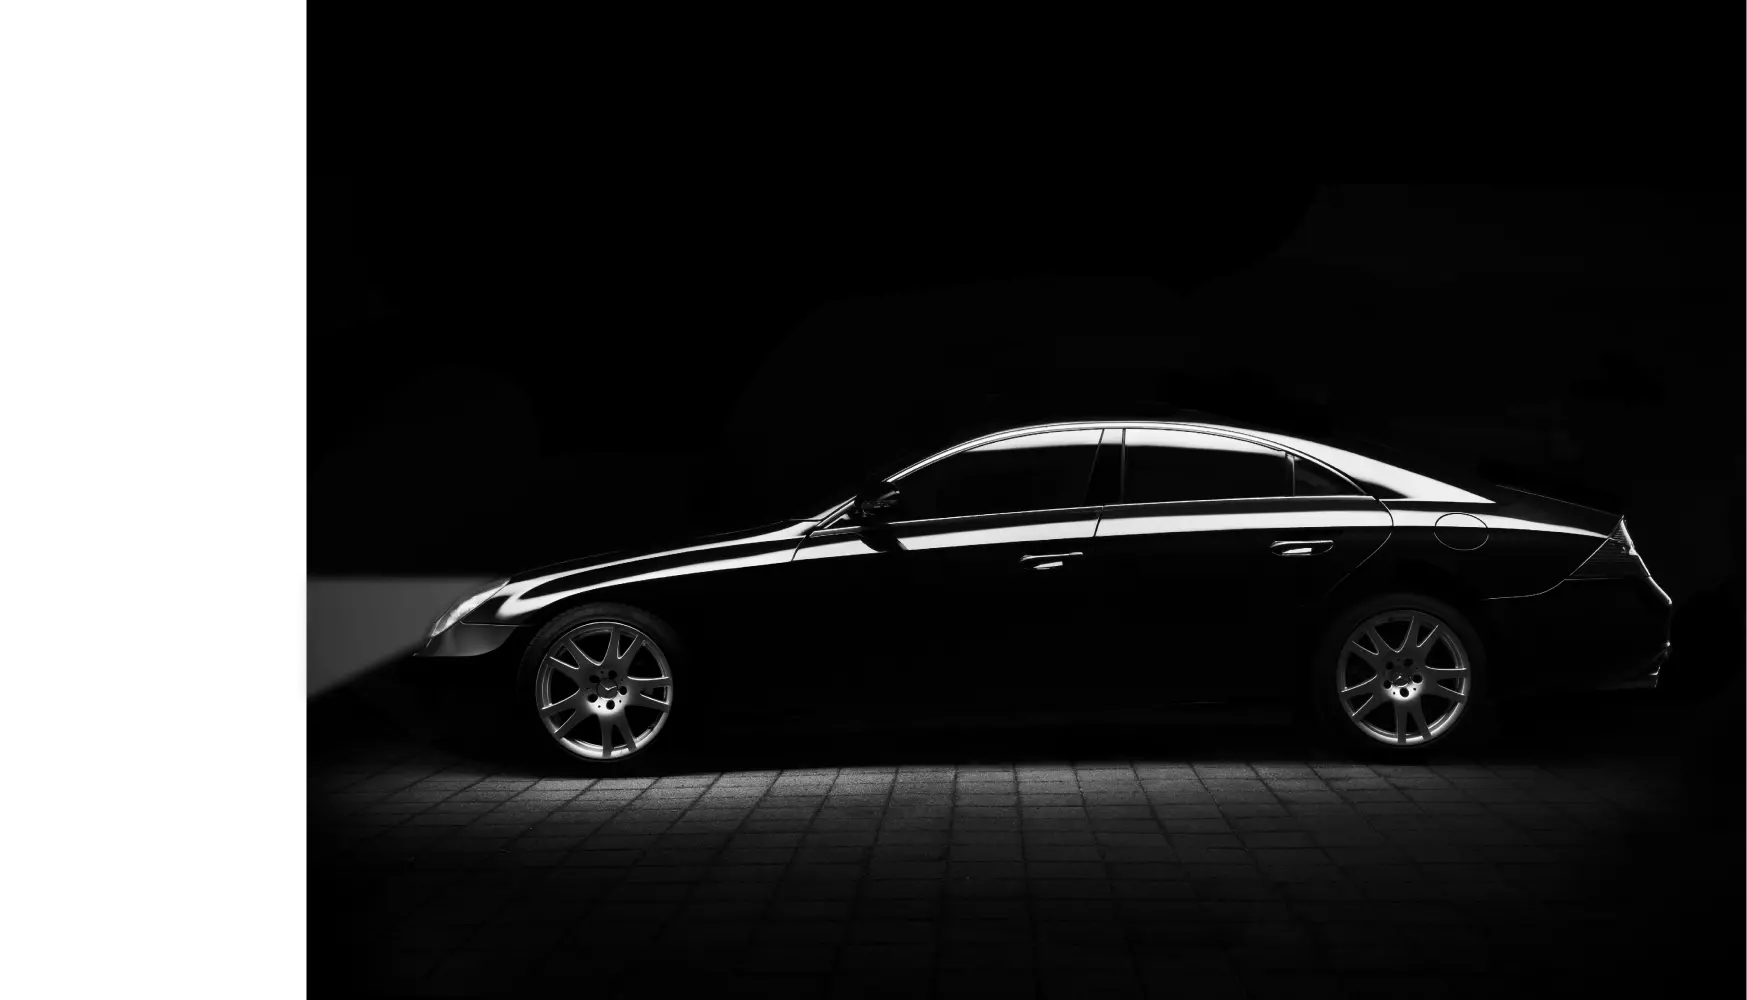
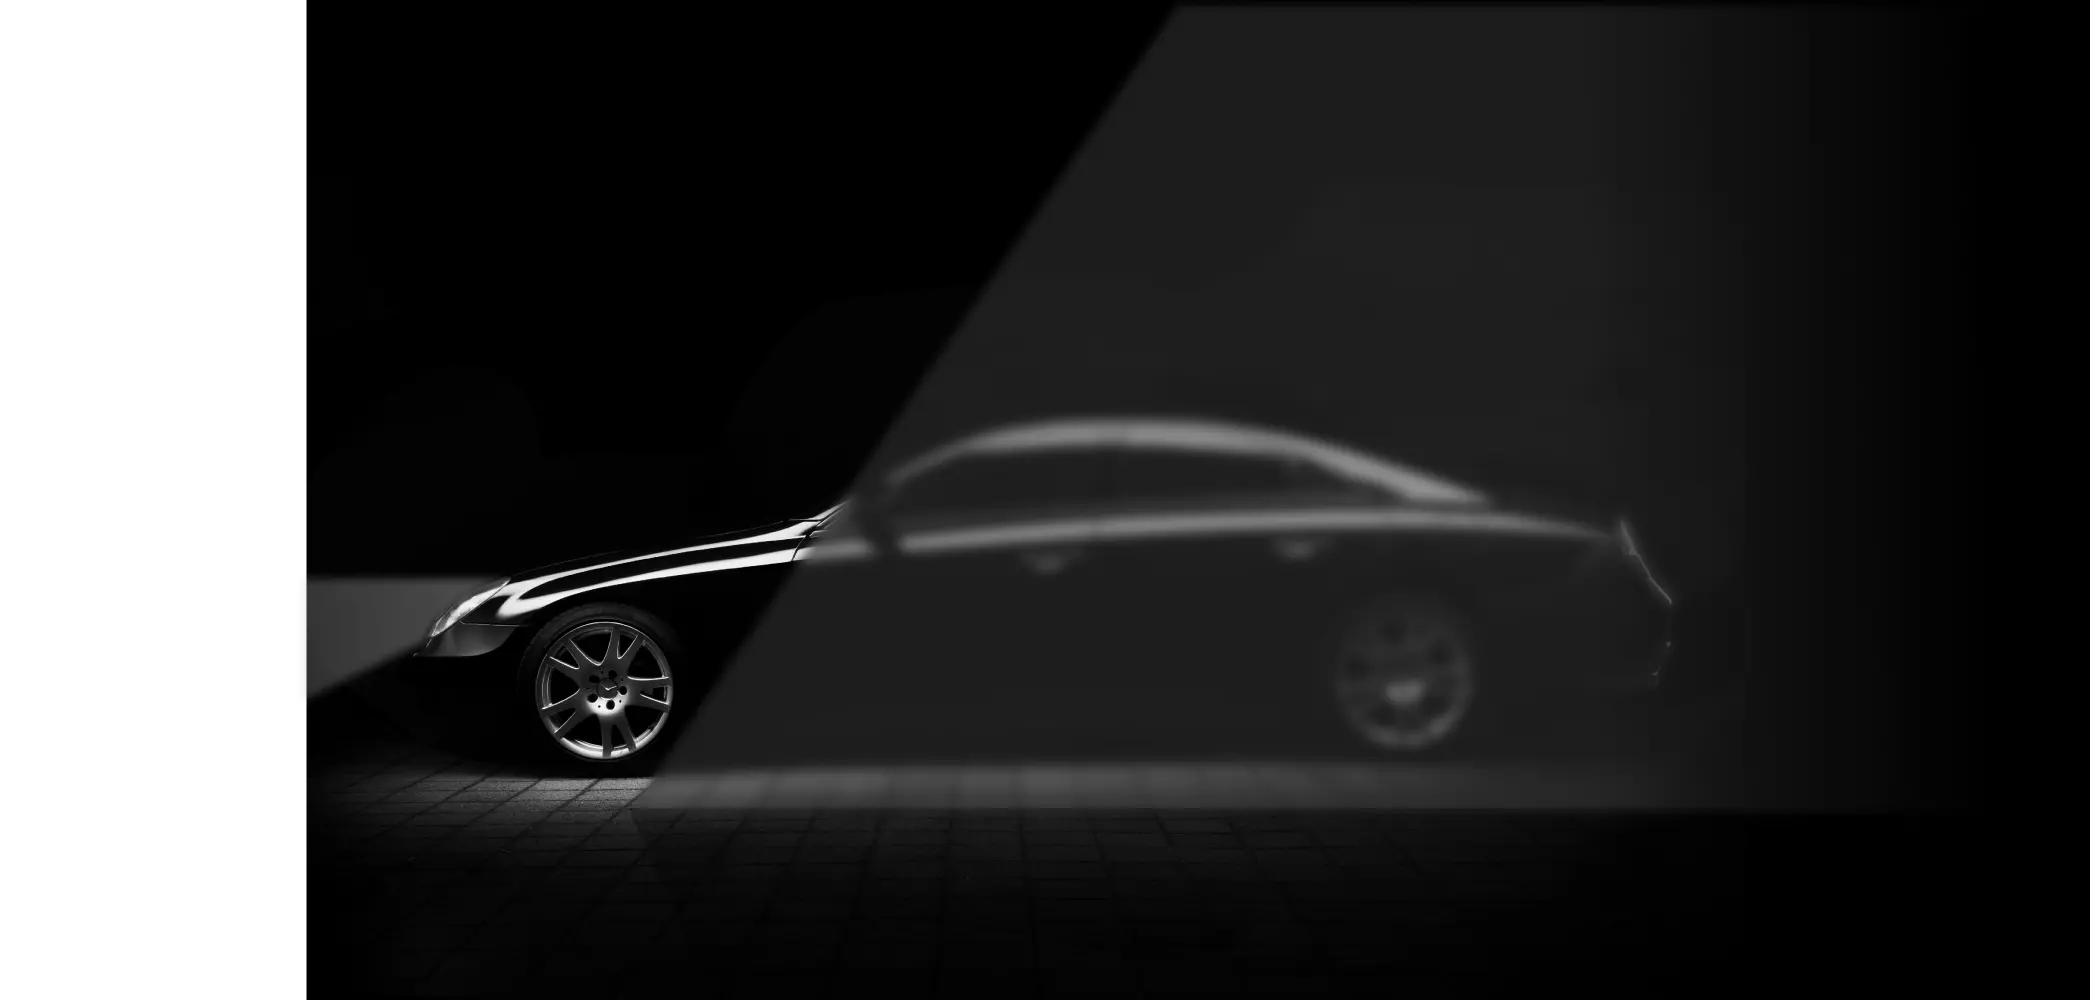
add modal + upd hero-bg-img

Changed region(s): [[0.1236, 0.0, 0.9582, 1.0]]

diff --git a/scutelinik/css/style.css b/scutelinik/css/style.css
@@ -202,6 +202,12 @@ input {
   font-size: 18px;
 }
 
+._lock {
+  overflow: hidden !important;
+  height: 100% !important;
+  padding-right: 18px;
+}
+
 .header {
   margin-top: 28px;
 }
@@ -254,10 +260,10 @@ input {
 .hero::before {
   position: absolute;
   content: "";
-  top: 0;
-  left: 0;
-  height: 100%;
-  width: 100%;
+  top: -97px;
+  left: 192px;
+  height: 1000px;
+  width: 2080px;
   background-image: url(../images/bg/head-bg.png);
   background-size: contain;
   background-repeat: no-repeat;
@@ -272,11 +278,6 @@ input {
   right: 0;
   height: 100%;
   width: 100%;
-  background-image: url(../images/bg/head-carblur.svg);
-  background-size: contain;
-  background-repeat: no-repeat;
-  background-position: top right -137px;
-  filter: blur(10px);
   z-index: -2;
 }
 .hero-container {
@@ -309,6 +310,7 @@ input {
   border-radius: 50%;
   opacity: 0.7;
   z-index: -1;
+  animation: heros 15s infinite linear;
 }
 .hero__title {
   color: #FA2230;
@@ -483,6 +485,7 @@ input {
   border-radius: 50%;
   opacity: 0.7;
   z-index: -3;
+  animation: circle 17s infinite linear;
 }
 .whyus__text {
   max-width: 375px;
@@ -503,11 +506,8 @@ input {
   0% {
     transform: translate(98px, -300px) rotate(0deg) scale(1);
   }
-  50% {
-    transform: translate(98px, -300px) rotate(-360deg) scale(1.1);
-  }
   100% {
-    transform: translate(98px, -300px) rotate(0deg) scale(1);
+    transform: translate(98px, -300px) rotate(360deg) scale(1);
   }
 }
 .services {
@@ -868,6 +868,57 @@ input {
 }
 .footer__item p:not(:last-child) {
   margin-bottom: 14px;
+}
+
+.modal {
+  position: fixed;
+  inset: 0;
+  height: 100%;
+  width: 100%;
+  overflow-x: hidden;
+  overflow-y: auto;
+  padding-top: 240px;
+  padding-bottom: 40px;
+  z-index: 100;
+  background-color: rgba(0, 0, 0, 0.85);
+  display: none;
+}
+.modal__inner {
+  position: relative;
+  width: 850px;
+  margin: 0 auto;
+  text-align: center;
+  background: linear-gradient(72.93deg, rgba(112, 0, 0, 0.5) 0%, rgba(246, 246, 246, 0.15) 99.08%);
+  background-repeat: no-repeat;
+  background-size: cover;
+  border-radius: 50px;
+  border: 3px solid rgba(250, 34, 48, 0.5);
+  padding: 160px 50px 95px 50px;
+}
+.modal__top {
+  position: absolute;
+  left: 50%;
+  width: 180px;
+  height: 180px;
+  top: -85px;
+  transform: translate(-50%, 0);
+}
+.modal__title {
+  font-weight: 400;
+  font-size: 32px;
+  line-height: 110%;
+  margin-bottom: 30px;
+}
+.modal__descr {
+  font-weight: 500;
+  font-size: 20px;
+  line-height: 120%;
+  max-width: 520px;
+  margin: 0 auto;
+  margin-bottom: 60px;
+}
+.modal.active {
+  display: block;
 }
 
 .nav__item:hover::before {

diff --git a/#src/sass/components/_hero.sass b/#src/sass/components/_hero.sass
@@ -6,10 +6,10 @@
   &::before
     position: absolute
     content: ''
-    top: 0
-    left: 0
-    height: 100%
-    width: 100%
+    top: -97px
+    left: 192px
+    height: 1000px
+    width: 2080px
     background-image: url(../images/bg/head-bg.png)
     background-size: contain
     background-repeat: no-repeat
@@ -23,13 +23,13 @@
     right: 0
     height: 100%
     width: 100%
-    background-image: url(../images/bg/head-carblur.svg)
-    background-size: contain
-    background-repeat: no-repeat
-    background-position: top right -137px
+    // background-image: url(../images/bg/head-carblu-r.svg)
+    // background-size: contain
+    // background-repeat: no-repeat
+    // background-position: top right -137px
     // transform: translateY(-241px)
     // backdrop-filter: blur(2px)
-    filter: blur(10px)
+    // filter: blur(10px)
     z-index: -2
   &-container
     position: relative
@@ -65,7 +65,7 @@
       border-radius: 50%
       opacity: 0.7
       z-index: -1
-      // animation: heros 10s 3s infinite linear
+      animation: heros 15s infinite linear
       // animation-name: heros
       // animation-duration: 5s
       // animation-timing-function: linear

diff --git a/scutelinik/js/main.min.js b/scutelinik/js/main.min.js
@@ -20,6 +20,25 @@ if (servicesBtn) {
   });
 }
 
+const modal = document.querySelector(".modal");
+const modalBtn = document.querySelector(".modal__btn");
+
+// body.classList.add("lock");
+
+modal.addEventListener("click", (e) => {
+  const isModal = e.target.closest(".modal__inner");
+
+  if (!isModal) {
+    modal.classList.remove("active");
+    document.body.classList.remove("_lock");
+  }
+});
+
+modalBtn.addEventListener("click", (e) => {
+  modal.classList.remove("active");
+  document.body.classList.remove("_lock");
+});
+
 // форма отправки оповещения в телеграм
 const form = document.querySelector(".footer__form");
 
@@ -91,9 +110,17 @@ validation
 
     sendForm(user).then((data) => {
       // console.log("Успешно!");
+      // modal.classList.add("active");
+      // time();
     });
 
     e.target.reset();
+
+    function time() {
+      document.querySelector('div[class="modal"]').classList.add("active");
+      document.body.classList.add("_lock");
+    }
+    setTimeout(time, 500);
 
     // });
     // конец формы

diff --git a/#src/sass/components/_modal.sass b/#src/sass/components/_modal.sass
@@ -1,0 +1,41 @@
+.modal
+  position: fixed
+  inset: 0
+  height: 100%
+  width: 100%
+  overflow-x: hidden
+  overflow-y: auto
+  padding-top: 240px
+  padding-bottom: 40px
+  z-index: 100
+  background-color: rgba(0, 0, 0, 0.85)
+  display: none
+  &__inner
+    position: relative
+    width: 850px
+    margin: 0 auto
+    text-align: center
+    background: linear-gradient(72.93deg, rgba(112, 0, 0, 0.5) 0%, rgba(246, 246, 246, 0.15) 99.08%)
+    background-repeat: no-repeat
+    background-size: cover
+    border-radius: 50px
+    border: 3px solid rgba($red, 0.5 )
+    padding: 160px 50px 95px 50px
+  &__top
+    position: absolute
+    left: 50%
+    width: 180px
+    height: 180px
+    top: -85px
+    transform: translate(-50%,0)
+  &__title
+    @include font(400, 32px, 110%)
+    margin-bottom: 30px
+  &__descr
+    // font-family: 'IkraSlab'
+    @include font(500, 20px, 120%)
+    max-width: 520px
+    margin: 0 auto
+    margin-bottom: 60px
+  &.active
+    display: block

diff --git a/scutelinik/index.html b/scutelinik/index.html
@@ -279,6 +279,21 @@
     </ul>
   </div>
 </footer>
+ <div class="modal">
+  <div class="modal__inner">
+    <div class="modal__top">
+      <img class="image modal__img" src="images/logo-modal.svg" alt="" />
+    </div>
+    <div class="modal__text">
+      <div class="heading modal__title">Ваша <span>заявка</span> принята!</div>
+      <div class="modal__descr">
+        В ближайщее время наш мененджер с Вами свяжется для дополнителльной
+        инофрмации!
+      </div>
+    </div>
+    <button class="btn-reset btn modal__btn">Закрыть</button>
+  </div>
+</div>
 
     </div>
 

diff --git a/#src/html/_modal.html b/#src/html/_modal.html
@@ -1,0 +1,15 @@
+<div class="modal">
+  <div class="modal__inner">
+    <div class="modal__top">
+      <img class="image modal__img" src="@img/logo-modal.svg" alt="" />
+    </div>
+    <div class="modal__text">
+      <div class="heading modal__title">Ваша <span>заявка</span> принята!</div>
+      <div class="modal__descr">
+        В ближайщее время наш мененджер с Вами свяжется для дополнителльной
+        инофрмации!
+      </div>
+    </div>
+    <button class="btn-reset btn modal__btn">Закрыть</button>
+  </div>
+</div>

diff --git a/#src/sass/components/_whyus.sass b/#src/sass/components/_whyus.sass
@@ -122,7 +122,7 @@
       border-radius: 50%
       opacity: 0.7
       z-index: -3
-      // animation: circle 15s infinite linear
+      animation: circle 17s infinite linear
   &__text
     max-width: 375px
     font-family: 'IkraSlab'
@@ -136,7 +136,5 @@
 @keyframes circle
   0%
     transform: translate(98px, -300px) rotate(0deg) scale(1)
-  50%
-    transform: translate(98px, -300px) rotate(-360deg) scale(1.1)
   100%
-    transform: translate(98px, -300px) rotate(0deg) scale(1)
+    transform: translate(98px, -300px) rotate(360deg) scale(1)

diff --git a/#src/js/scripts/bodal.js b/#src/js/scripts/bodal.js
@@ -1,0 +1,18 @@
+const modal = document.querySelector(".modal");
+const modalBtn = document.querySelector(".modal__btn");
+
+// body.classList.add("lock");
+
+modal.addEventListener("click", (e) => {
+  const isModal = e.target.closest(".modal__inner");
+
+  if (!isModal) {
+    modal.classList.remove("active");
+    document.body.classList.remove("_lock");
+  }
+});
+
+modalBtn.addEventListener("click", (e) => {
+  modal.classList.remove("active");
+  document.body.classList.remove("_lock");
+});

diff --git a/#src/js/scripts/form.js b/#src/js/scripts/form.js
@@ -69,9 +69,17 @@ validation
 
     sendForm(user).then((data) => {
       // console.log("Успешно!");
+      // modal.classList.add("active");
+      // time();
     });
 
     e.target.reset();
+
+    function time() {
+      document.querySelector('div[class="modal"]').classList.add("active");
+      document.body.classList.add("_lock");
+    }
+    setTimeout(time, 500);
 
     // });
     // конец формы

diff --git a/#src/sass/style.sass b/#src/sass/style.sass
@@ -24,7 +24,7 @@
 // подключение стилей подвала
 @import 'components/footer'
 // подключение стилей для аккордеона
-// @import 'components/accordeon'
+@import 'components/modal'
 // подключение стилей для слайдера с отзывами
 // @import 'components/reviews'
 

diff --git a/#src/index.html b/#src/index.html
@@ -9,7 +9,7 @@
         @include('html/_whyus.html') @include('html/_services.html')
         @include('html/_works.html') @include('html/_call.html')
       </main>
-      @include('html/footer.html')
+      @include('html/footer.html') @include('html/_modal.html')
     </div>
 
     <!-- подключение скриптов -->

diff --git a/#src/sass/_settings.sass b/#src/sass/_settings.sass
@@ -91,3 +91,8 @@ input
   padding-top: 10px
   color: $red !important
   font-size: 18px
+
+._lock
+  overflow: hidden!important
+  height: 100%!important
+  padding-right: 18px
